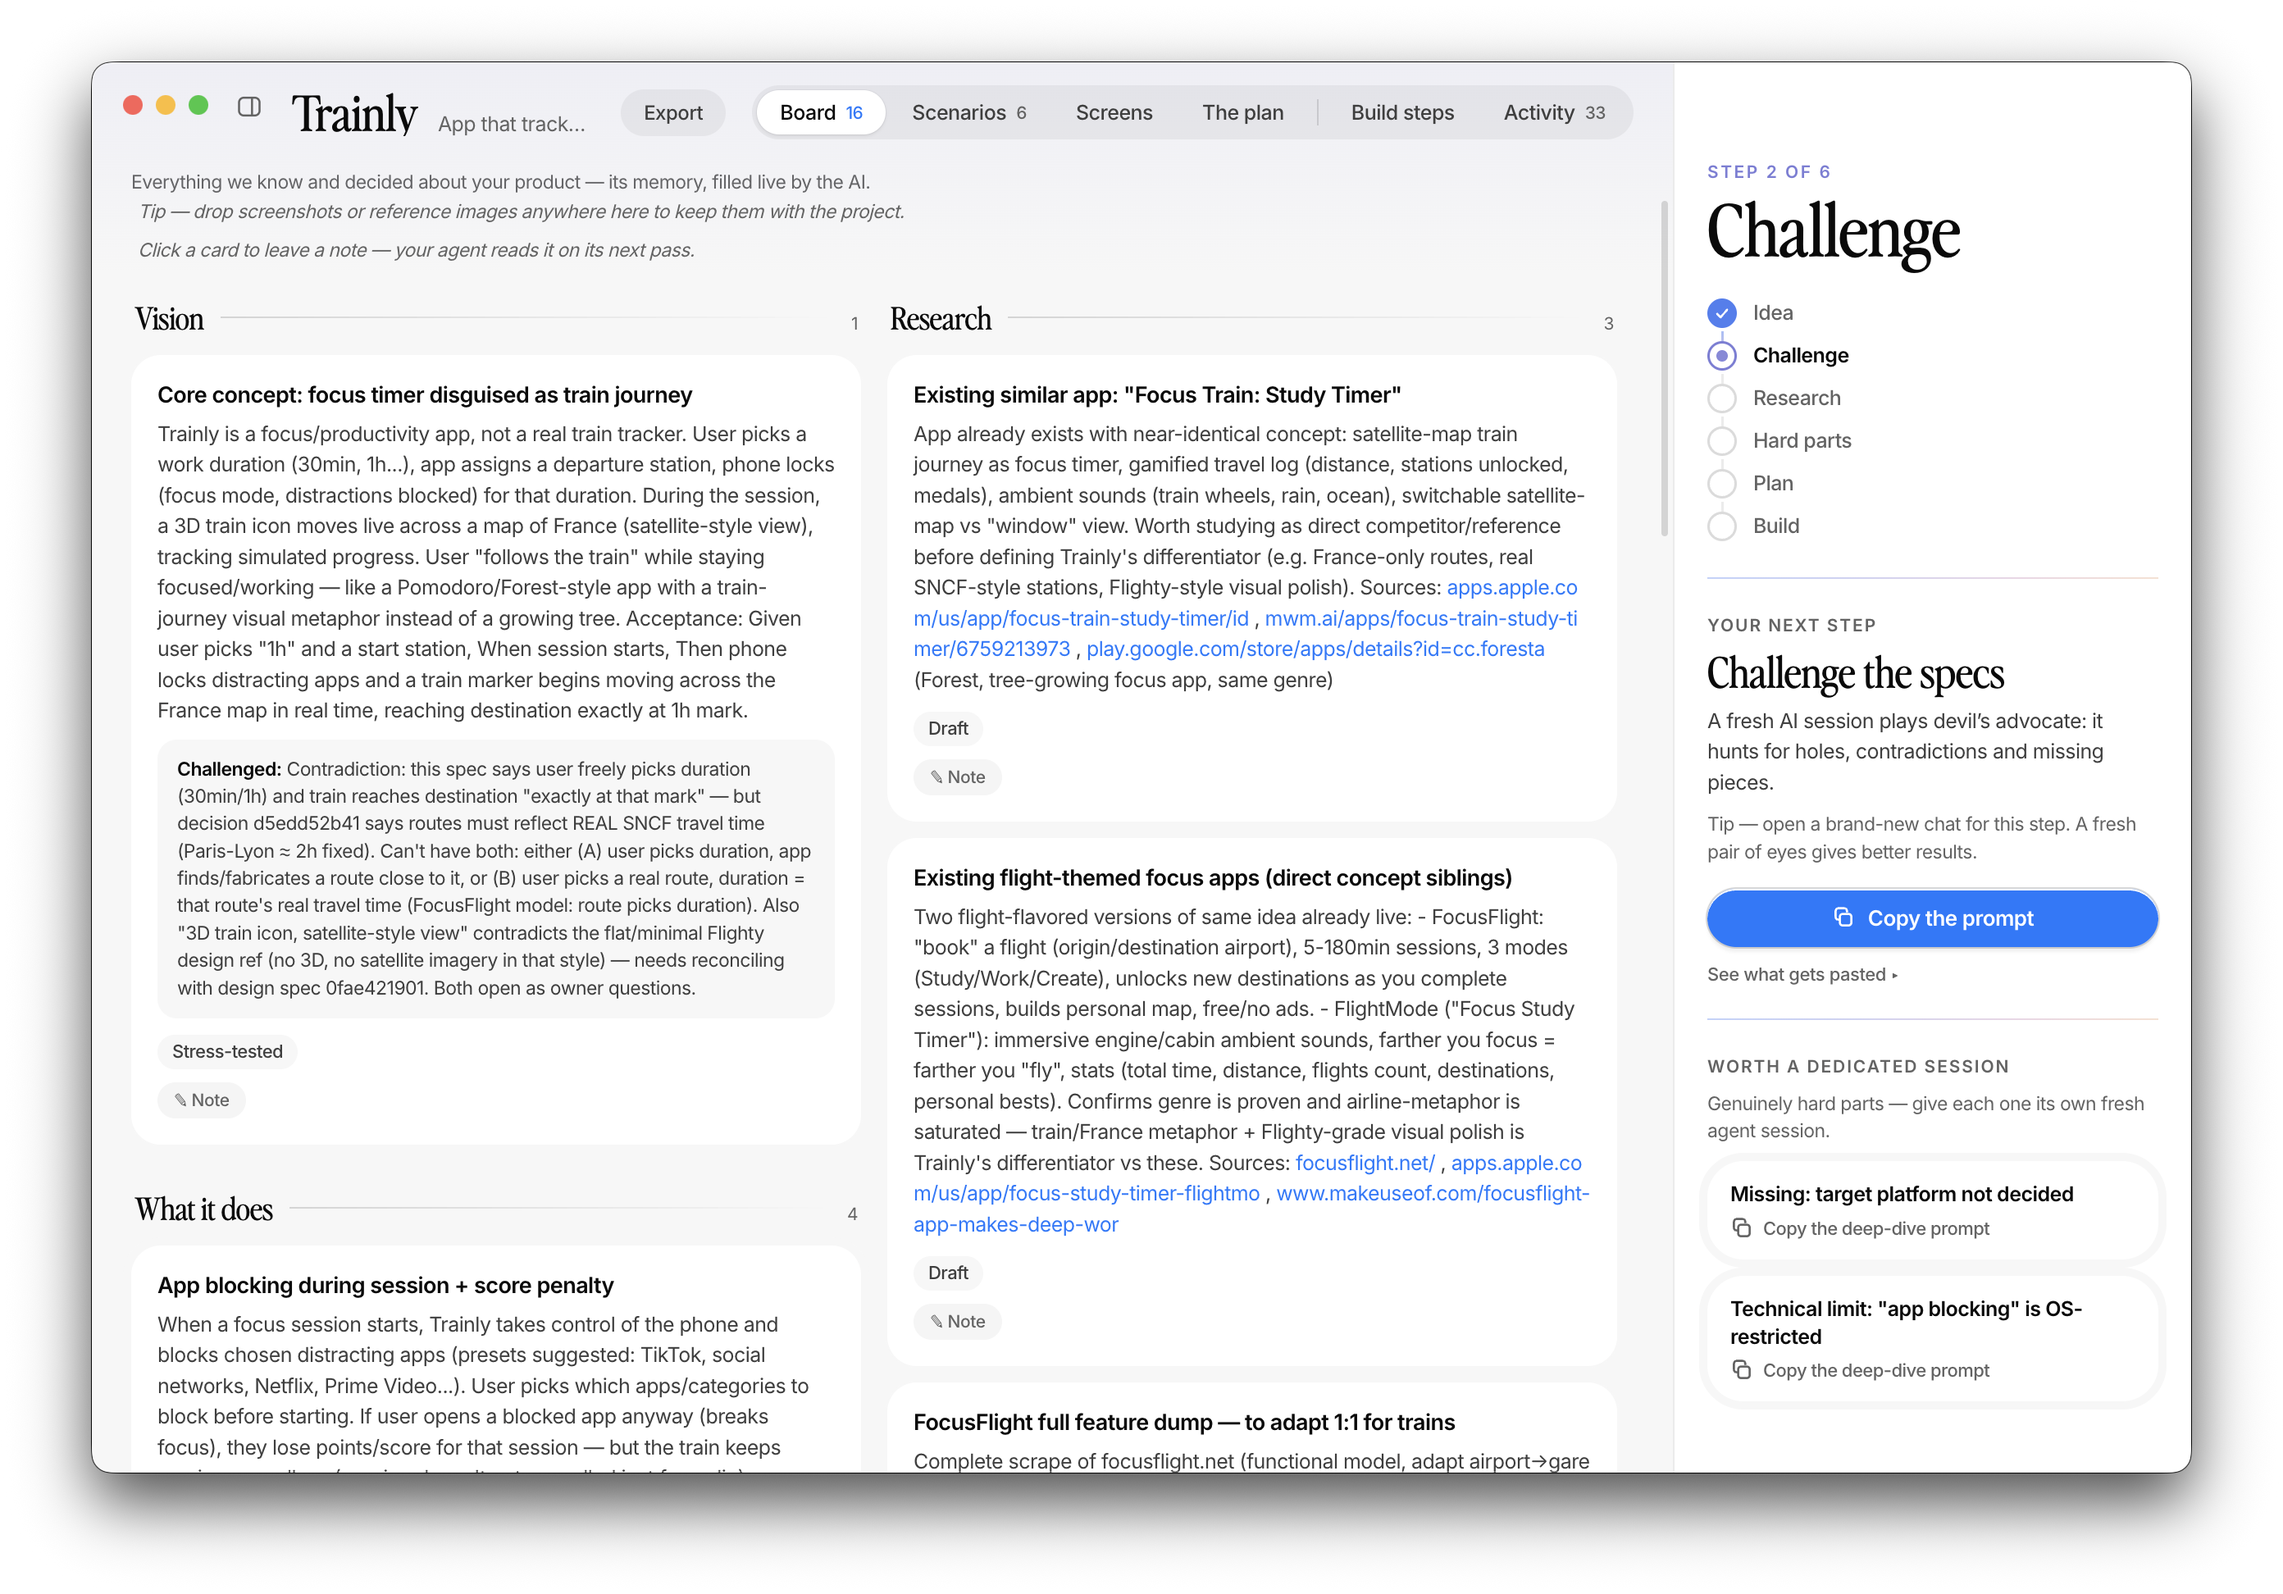
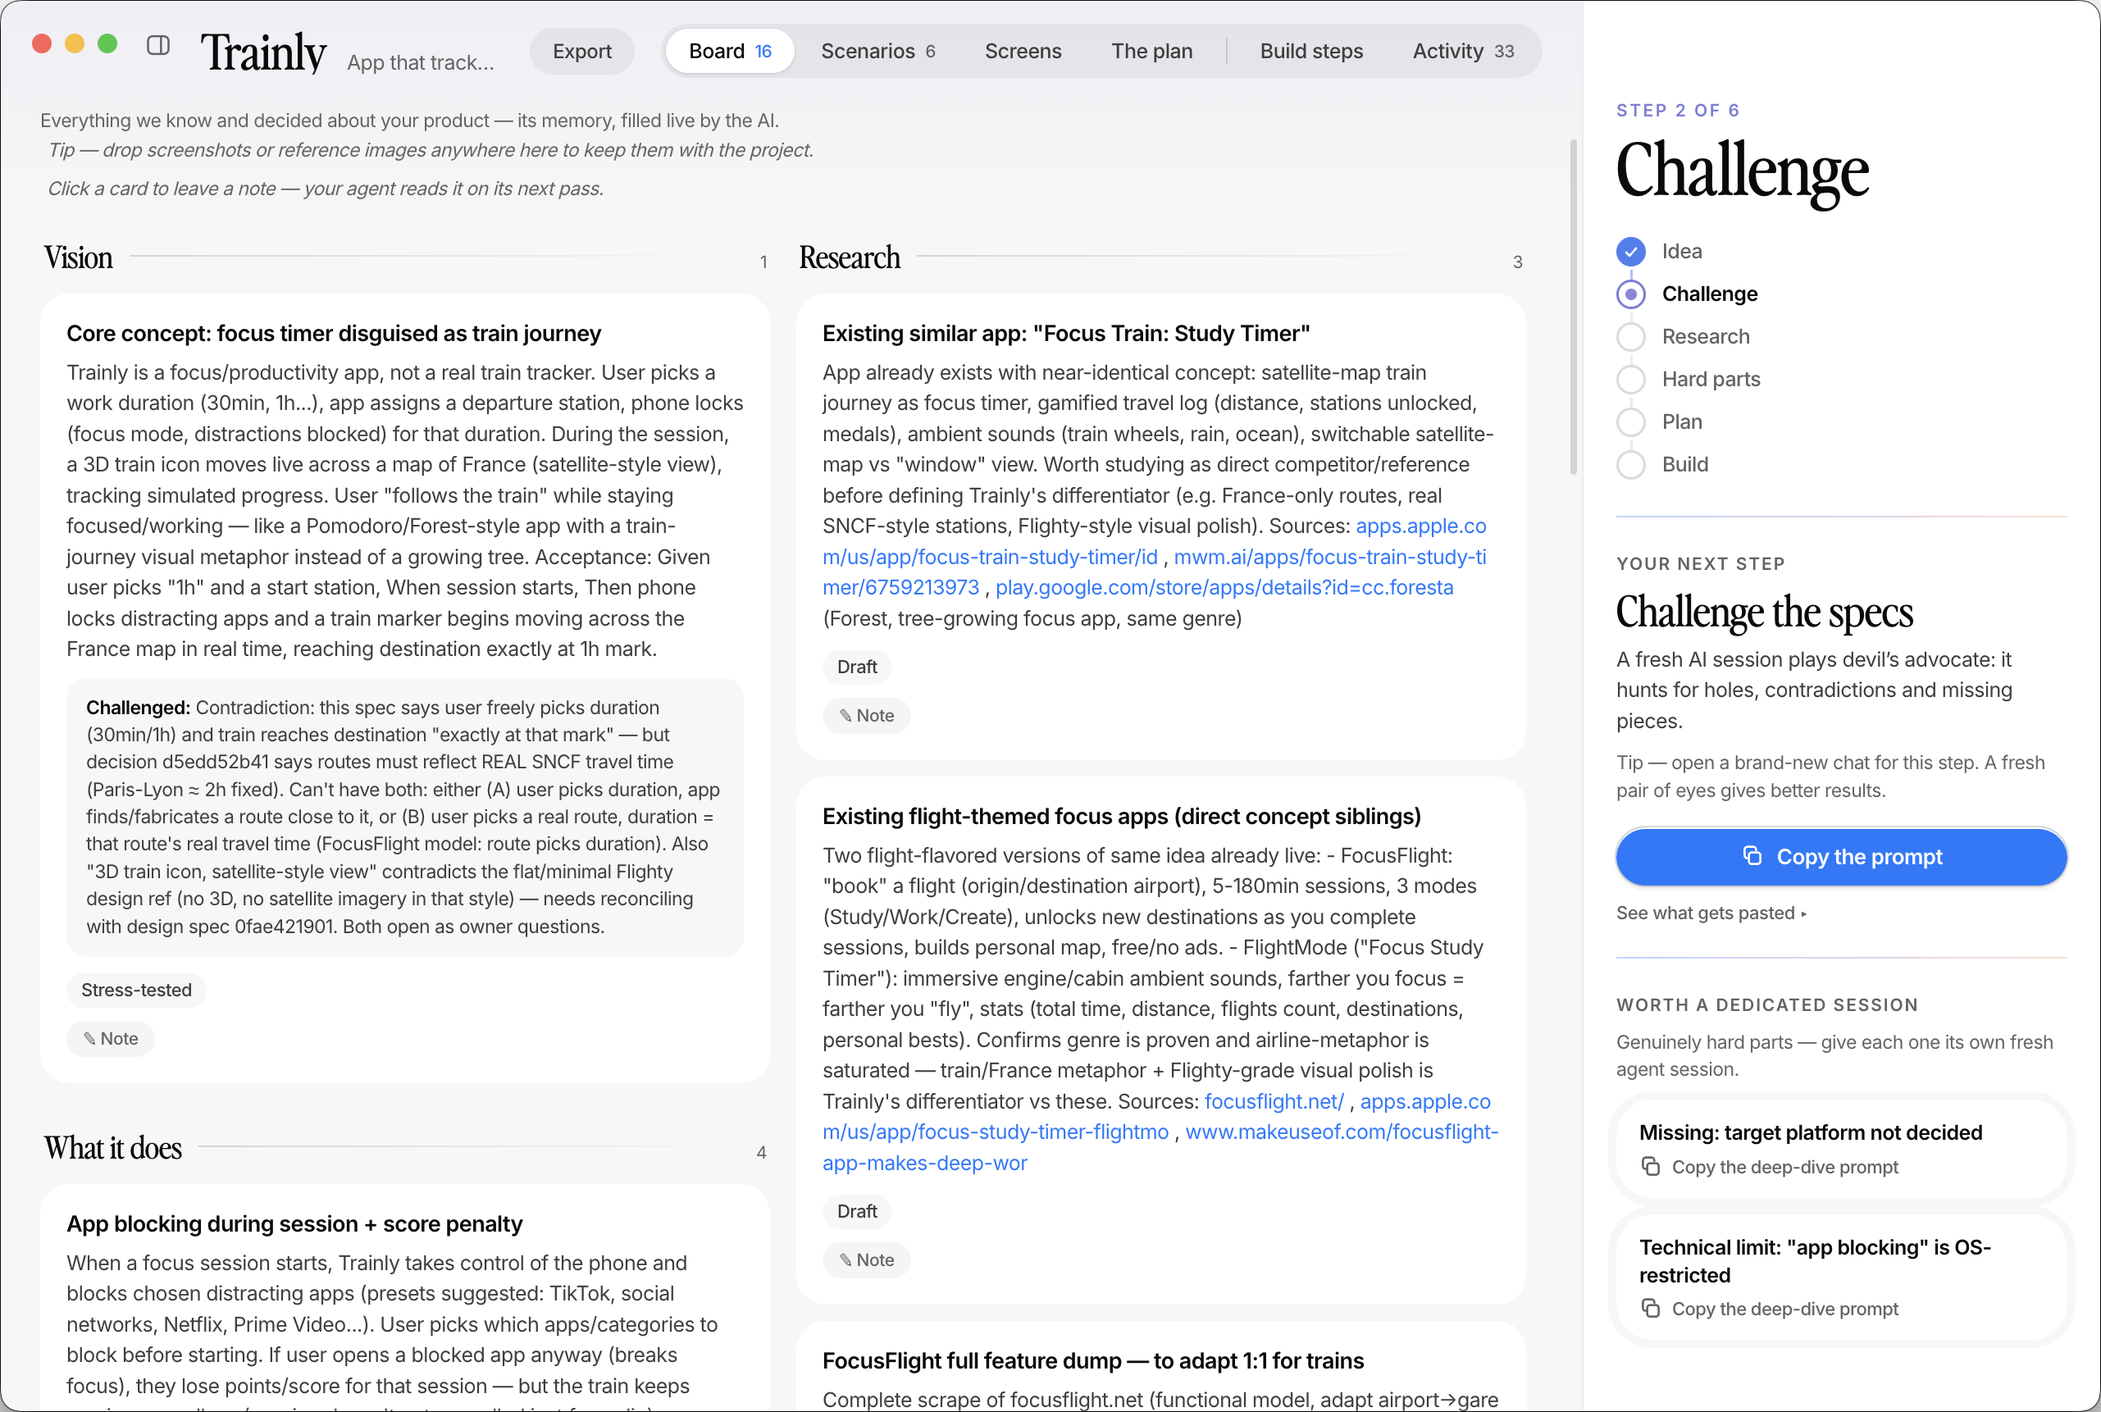
Curtain gradient: a thin white seam parts the dusk under the cursor
Replaces the rejected light-halo attempt. Two halves of one gradient
sheet split at the pointer and slide apart over white. Also: white
sheet now rises into the gradient with 40px rounded corners (no hard
cut), the hero screenshot is trimmed of its macOS shadow padding and
rendered bare, and the hero carries the app's real logo stamp.

diff --git a/index.html b/index.html
@@ -90,13 +90,10 @@
 
   /* ---------- hero ---------- */
   .hero {
-    background: var(--dusk);
-    background-size: 100% 128%;
-    background-position: 0% 12%;
+    background: #fdfdfd;
     color: #fff;
     text-align: center;
-    padding: 92px 24px 230px;
-    animation: duskDrift 34s ease-in-out infinite alternate;
+    padding: 92px 24px 300px;
     position: relative;
     overflow: hidden;
   }
@@ -105,52 +102,56 @@
     from { background-position: 0% 4%; }
     to   { background-position: 0% 96%; }
   }
-  /* The dusk gradient gives way under the cursor. Three layers, no light overlay:
-     the base drifts on its own, a cross-angled twin slides the opposite way for
-     parallax, and a soft lens carries the palette displaced one notch further down
-     the ramp — so where the pointer passes, the colours step aside. */
+  /* The gradient PARTS under the cursor: two halves of the same dusk sheet,
+     split at the pointer's x, sliding away from it — a soft white seam opens
+     between them, like curtains. No light overlay, only the gradient moving. */
   .warp {
     position: absolute;
-    inset: -16%;
+    inset: 0;
     z-index: 0;
     pointer-events: none;
-    will-change: transform;
-  }
-  .warp-a {
     background: var(--dusk);
     background-size: 100% 128%;
     background-position: 0% 12%;
     animation: duskDrift 34s ease-in-out infinite alternate;
+    will-change: transform, clip-path;
   }
-  .warp-b {
-    background: linear-gradient(148deg, #4a7ff2 0%, #7b7ed8 30%, #c98ab5 64%, #e8a87c 100%);
-    background-size: 190% 200%;
-    opacity: 0.5;
-    animation: duskDriftB 47s ease-in-out infinite alternate;
+  .warp-l { clip-path: inset(0 calc(100% - var(--sx, 50%)) 0 0); transform: translateX(calc(var(--part, 0px) * -1)); }
+  .warp-r { clip-path: inset(0 0 0 var(--sx, 50%)); transform: translateX(var(--part, 0px)); }
+  /* Soft edge on each half so the seam is a feathered white breath, not a blade */
+  .warp-l { -webkit-mask-image: linear-gradient(to right, #000 calc(var(--sx, 50%) - 14px), rgba(0,0,0,0.55) calc(var(--sx, 50%) - 4px), transparent calc(var(--sx, 50%) - 1px)); mask-image: linear-gradient(to right, #000 calc(var(--sx, 50%) - 14px), rgba(0,0,0,0.55) calc(var(--sx, 50%) - 4px), transparent calc(var(--sx, 50%) - 1px)); }
+  .warp-r { -webkit-mask-image: linear-gradient(to left, #000 calc(100% - var(--sx, 50%) - 14px), rgba(0,0,0,0.55) calc(100% - var(--sx, 50%) - 4px), transparent calc(100% - var(--sx, 50%) - 1px)); mask-image: linear-gradient(to left, #000 calc(100% - var(--sx, 50%) - 14px), rgba(0,0,0,0.55) calc(100% - var(--sx, 50%) - 4px), transparent calc(100% - var(--sx, 50%) - 1px)); }
+  /* Masks only bite while parted — at rest both halves overlap seamlessly */
+  .hero:not(.warping) .warp-l, .hero:not(.warping) .warp-r {
+    -webkit-mask-image: none; mask-image: none;
+    clip-path: inset(0 0 0 0);
   }
-  @keyframes duskDriftB {
-    from { background-position: 88% 6%; }
-    to   { background-position: 12% 94%; }
-  }
-  .warp-lens {
-    inset: 0;
-    background: linear-gradient(178deg, #7b7ed8 -12%, #a887c6 24%, #c98ab5 52%, #e8a87c 84%, #f2c39d 108%);
-    background-size: 100% 150%;
-    background-position: 0% 55%;
-    opacity: 0;
-    transition: opacity 0.75s ease;
-    -webkit-mask-image: radial-gradient(circle 460px at var(--mx, 50%) var(--my, 40%),
-      #000 0%, rgba(0, 0, 0, 0.66) 38%, rgba(0, 0, 0, 0.22) 62%, transparent 78%);
-    mask-image: radial-gradient(circle 460px at var(--mx, 50%) var(--my, 40%),
-      #000 0%, rgba(0, 0, 0, 0.66) 38%, rgba(0, 0, 0, 0.22) 62%, transparent 78%);
-    will-change: opacity, background-position;
-  }
-  .hero.warping .warp-lens { opacity: 0.82; }
-  .hero .brand {
+  .hero .brand { margin-bottom: 60px; }
+  .brand-stamp {
+    position: relative;
+    display: inline-block;
     font-family: var(--serif);
-    font-size: 22px;
-    opacity: 0.95;
-    margin-bottom: 60px;
+    font-size: 23px;
+    color: var(--ink);
+    background: var(--paper);
+    border-radius: 14px;
+    padding: 8px 20px 10px;
+    box-shadow: 0 0 0 1px rgba(0, 0, 0, 0.06), 0 6px 18px rgba(30, 30, 70, 0.18);
+    transform: rotate(-1.6deg);
+  }
+  .brand-cursor { position: absolute; right: -12px; bottom: -7px; }
+  .brand-pill {
+    position: absolute;
+    left: 10px;
+    top: 7px;
+    font-family: var(--sans);
+    font-size: 10px;
+    font-weight: 600;
+    color: #fff;
+    background: #7b7ed8;
+    border-radius: 50px;
+    padding: 2px 8px;
+    white-space: nowrap;
   }
   .hero h1 {
     font-family: var(--serif);
@@ -208,16 +209,20 @@
   .hero .hint { margin-top: 14px; font-size: 12.5px; opacity: 0.8; }
 
   /* ---------- real app screenshot, floating out of the hero ---------- */
-  .shot-wrap { max-width: 880px; margin: -170px auto 0; padding: 0 20px; position: relative; z-index: 2; }
-  .shot-frame {
-    /* The screenshot carries its own dark rounded frame — show it untouched,
-       only a soft cast shadow underneath. A box-shadow (not a drop-shadow filter)
-       so the cast is never clipped by this element's own overflow or by the
-       stacking context of the section below. */
+  /* The white sheet slides up over the gradient with generous rounded corners —
+     no hard horizontal cut anywhere. */
+  .sheet {
     position: relative;
-    border-radius: 26px;
-    overflow: hidden;
-    box-shadow: 0 26px 54px -14px rgba(30, 30, 70, 0.42), 0 8px 20px -8px rgba(30, 30, 70, 0.28);
+    z-index: 2;
+    margin-top: -96px;
+    background: var(--canvas);
+    border-radius: 40px 40px 0 0;
+    box-shadow: 0 -18px 50px rgba(30, 30, 70, 0.12);
+  }
+  .shot-wrap { max-width: 880px; margin: 0 auto; padding: 56px 20px 0; position: relative; }
+  .shot-frame {
+    /* The screenshot carries its own dark rounded frame — nothing added. */
+    filter: drop-shadow(0 24px 48px rgba(30, 30, 70, 0.28));
   }
   .shot-frame img { display: block; width: 100%; height: auto; }
   .shot-caption {
@@ -755,10 +760,16 @@
 <body>
 
 <header class="hero">
-  <div class="warp warp-a" aria-hidden="true"></div>
-  <div class="warp warp-b" aria-hidden="true"></div>
-  <div class="warp warp-lens" aria-hidden="true"></div>
-  <div class="brand">SpecDrive</div>
+  <div class="warp warp-l" aria-hidden="true"></div>
+  <div class="warp warp-r" aria-hidden="true"></div>
+  <div class="brand">
+    <span class="brand-stamp">SpecDrive
+      <span class="brand-cursor" aria-hidden="true">
+        <svg width="12" height="12" viewBox="0 0 24 24" fill="none"><path d="M5.5 3.21V20.8c0 .45.54.67.85.35l4.86-4.86a.5.5 0 0 1 .35-.15h6.87c.48 0 .72-.58.38-.92L5.94 2.47a.5.5 0 0 0-.44.74Z" fill="#7b7ed8" stroke="#fff" stroke-width="1.6" stroke-linejoin="round"/></svg>
+        <span class="brand-pill">agents</span>
+      </span>
+    </span>
+  </div>
   <h1>Say what you want.<br /><em>Watch it get built right.</em></h1>
   <p class="sub">
     SpecDrive is a Mac app for people who build software by talking to an AI coding agent —
@@ -772,9 +783,10 @@
   <div class="hint">Any MCP-capable agent · Any team · Apple Silicon · free</div>
 </header>
 
+<div class="sheet">
 <div class="shot-wrap">
   <div class="shot-frame">
-    <img src="assets/hero.png" alt="The SpecDrive board: specs written live by an AI agent, a challenge verdict, the phase stepper and the next-step prompt" width="2784" height="1944" />
+    <img src="assets/hero.png" alt="The SpecDrive board: specs written live by an AI agent, a challenge verdict, the phase stepper and the next-step prompt" width="2562" height="1722" />
   </div>
   <div class="shot-caption"><span class="live-dot"></span> A real project, filled live by Claude Code — nothing in this screenshot was typed by a human.</div>
 </div>
@@ -1084,51 +1096,42 @@
   <a href="https://github.com/Connected-Mate/specdrive-site/releases">All releases</a>
 </footer>
 
+</div><!-- /sheet -->
+
 <script>
   (function () {
-    // The dusk gradient gives way under the cursor: the near layer is pushed away from
-    // the pointer, the far layer drifts the other way, so the colour bands part.
-    // Values are eased every frame, so the motion trails the pointer and settles back
-    // to the idle drift when it leaves. Pointer devices only.
     var hero = document.querySelector('.hero');
-    var a = hero && hero.querySelector('.warp-a');
-    var b = hero && hero.querySelector('.warp-b');
-    var lens = hero && hero.querySelector('.warp-lens');
-    if (!a || !b || !lens ||
+    if (!hero || !hero.querySelector('.warp-l') ||
         !window.matchMedia('(pointer: fine)').matches ||
         window.matchMedia('(prefers-reduced-motion: reduce)').matches) return;
 
-    // Targets and eased values are in -1..1, centre of the hero being 0.
-    var tx = 0, ty = 0, cx = 0, cy = 0, running = false, inside = false;
-
+    // Curtain: the two gradient halves split at the pointer's x and slide
+    // apart a few px — a feathered white seam opens where the mouse passes.
+    var sx = 50, part = 0, tsx = 50, tpart = 0, running = false;
     function frame() {
-      cx += (tx - cx) * 0.075;
-      cy += (ty - cy) * 0.075;
-      a.style.transform = 'translate3d(' + (cx * -5).toFixed(3) + '%,' + (cy * -4).toFixed(3) + '%,0)';
-      b.style.transform = 'translate3d(' + (cx * 10).toFixed(3) + '%,' + (cy * 8).toFixed(3) + '%,0)';
-      lens.style.setProperty('--mx', (50 + cx * 50).toFixed(2) + '%');
-      lens.style.setProperty('--my', (50 + cy * 50).toFixed(2) + '%');
-      // The displaced palette slides against the pointer: the colours step aside.
-      lens.style.backgroundPosition = (50 - cx * 32).toFixed(2) + '% ' + (52 - cy * 36).toFixed(2) + '%';
-      if (Math.abs(tx - cx) > 0.0006 || Math.abs(ty - cy) > 0.0006) {
+      sx += (tsx - sx) * 0.14;
+      part += (tpart - part) * 0.1;
+      hero.style.setProperty('--sx', sx.toFixed(2) + '%');
+      hero.style.setProperty('--part', part.toFixed(2) + 'px');
+      if (Math.abs(tsx - sx) > 0.05 || Math.abs(tpart - part) > 0.05) {
         requestAnimationFrame(frame);
       } else {
         running = false;
+        if (tpart === 0) hero.classList.remove('warping');
       }
     }
     function start() { if (!running) { running = true; requestAnimationFrame(frame); } }
 
     hero.addEventListener('pointermove', function (e) {
       var r = hero.getBoundingClientRect();
-      tx = (e.clientX - r.left) / r.width * 2 - 1;
-      ty = (e.clientY - r.top) / r.height * 2 - 1;
-      if (!inside) { inside = true; hero.classList.add('warping'); }
+      tsx = ((e.clientX - r.left) / r.width) * 100;
+      tpart = 6;
+      hero.classList.add('warping');
       start();
     }, { passive: true });
     hero.addEventListener('pointerleave', function () {
-      inside = false;
-      hero.classList.remove('warping');
-      tx = 0; ty = 0; start();
+      tpart = 0;
+      start();
     });
   })();
 
